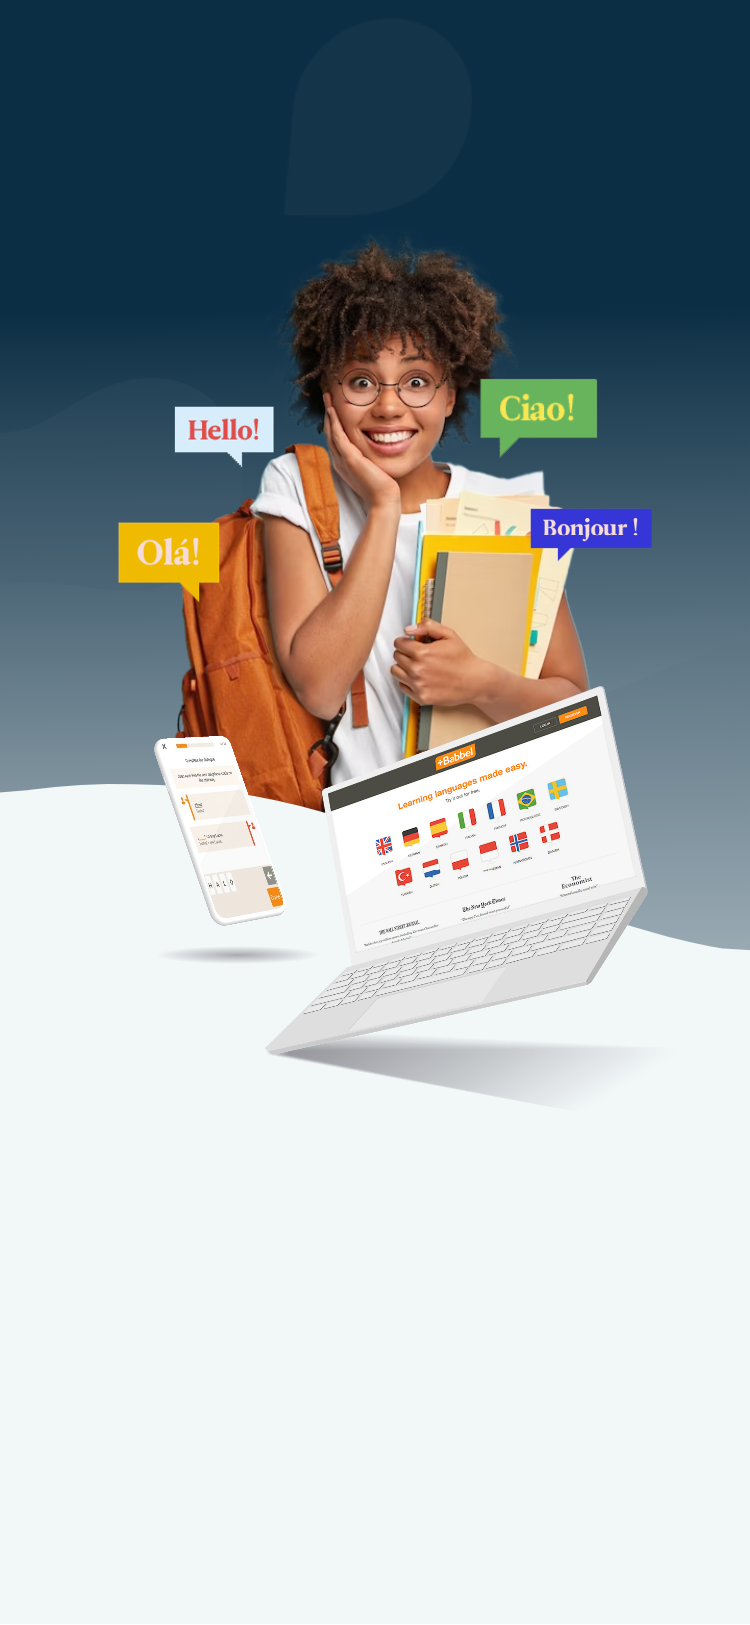
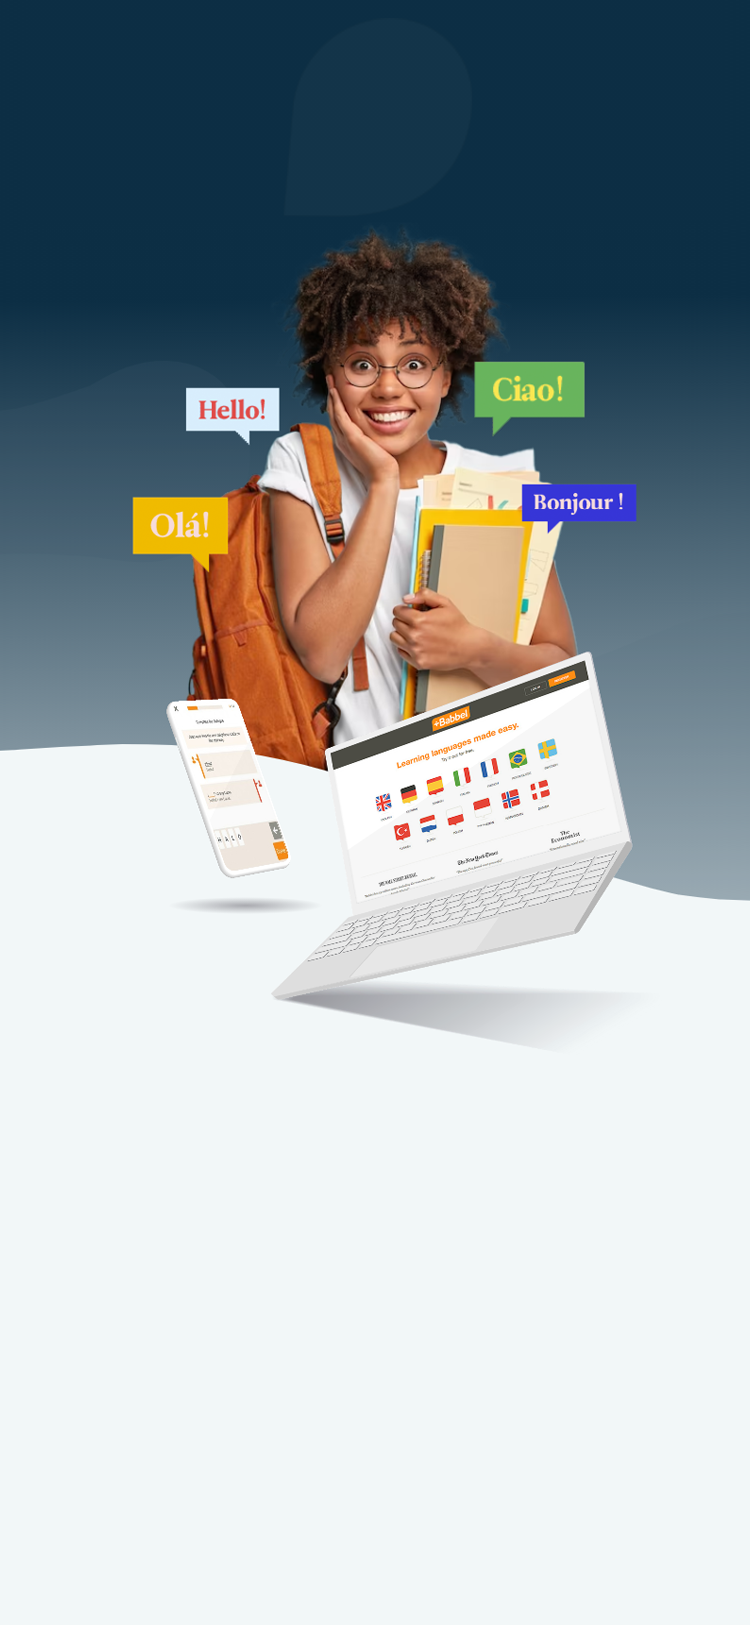
sexta3

Changed region(s): [[0.0, 0.1231, 1.0, 0.6769]]

diff --git a/style/main.css b/style/main.css
@@ -383,17 +383,16 @@ header {}
     right: 0;
     margin: auto;
     min-height: 100vh;
-    /*    width: 100%; */
+    /* width: 100%; */
     display: grid;
     align-content: end;
     justify-items: center;
-
     box-sizing: border-box;
-   
-  padding-bottom: 1em;
+    padding-bottom: 2em;
+
     grid-template-columns: repeat(2, 1fr);
     grid-template-rows: 3.125em 2.5em 4.8125em;
-    grid-row-gap: 1em;
+    grid-row-gap: 0.5em;
     overflow: hidden;
    
 }
